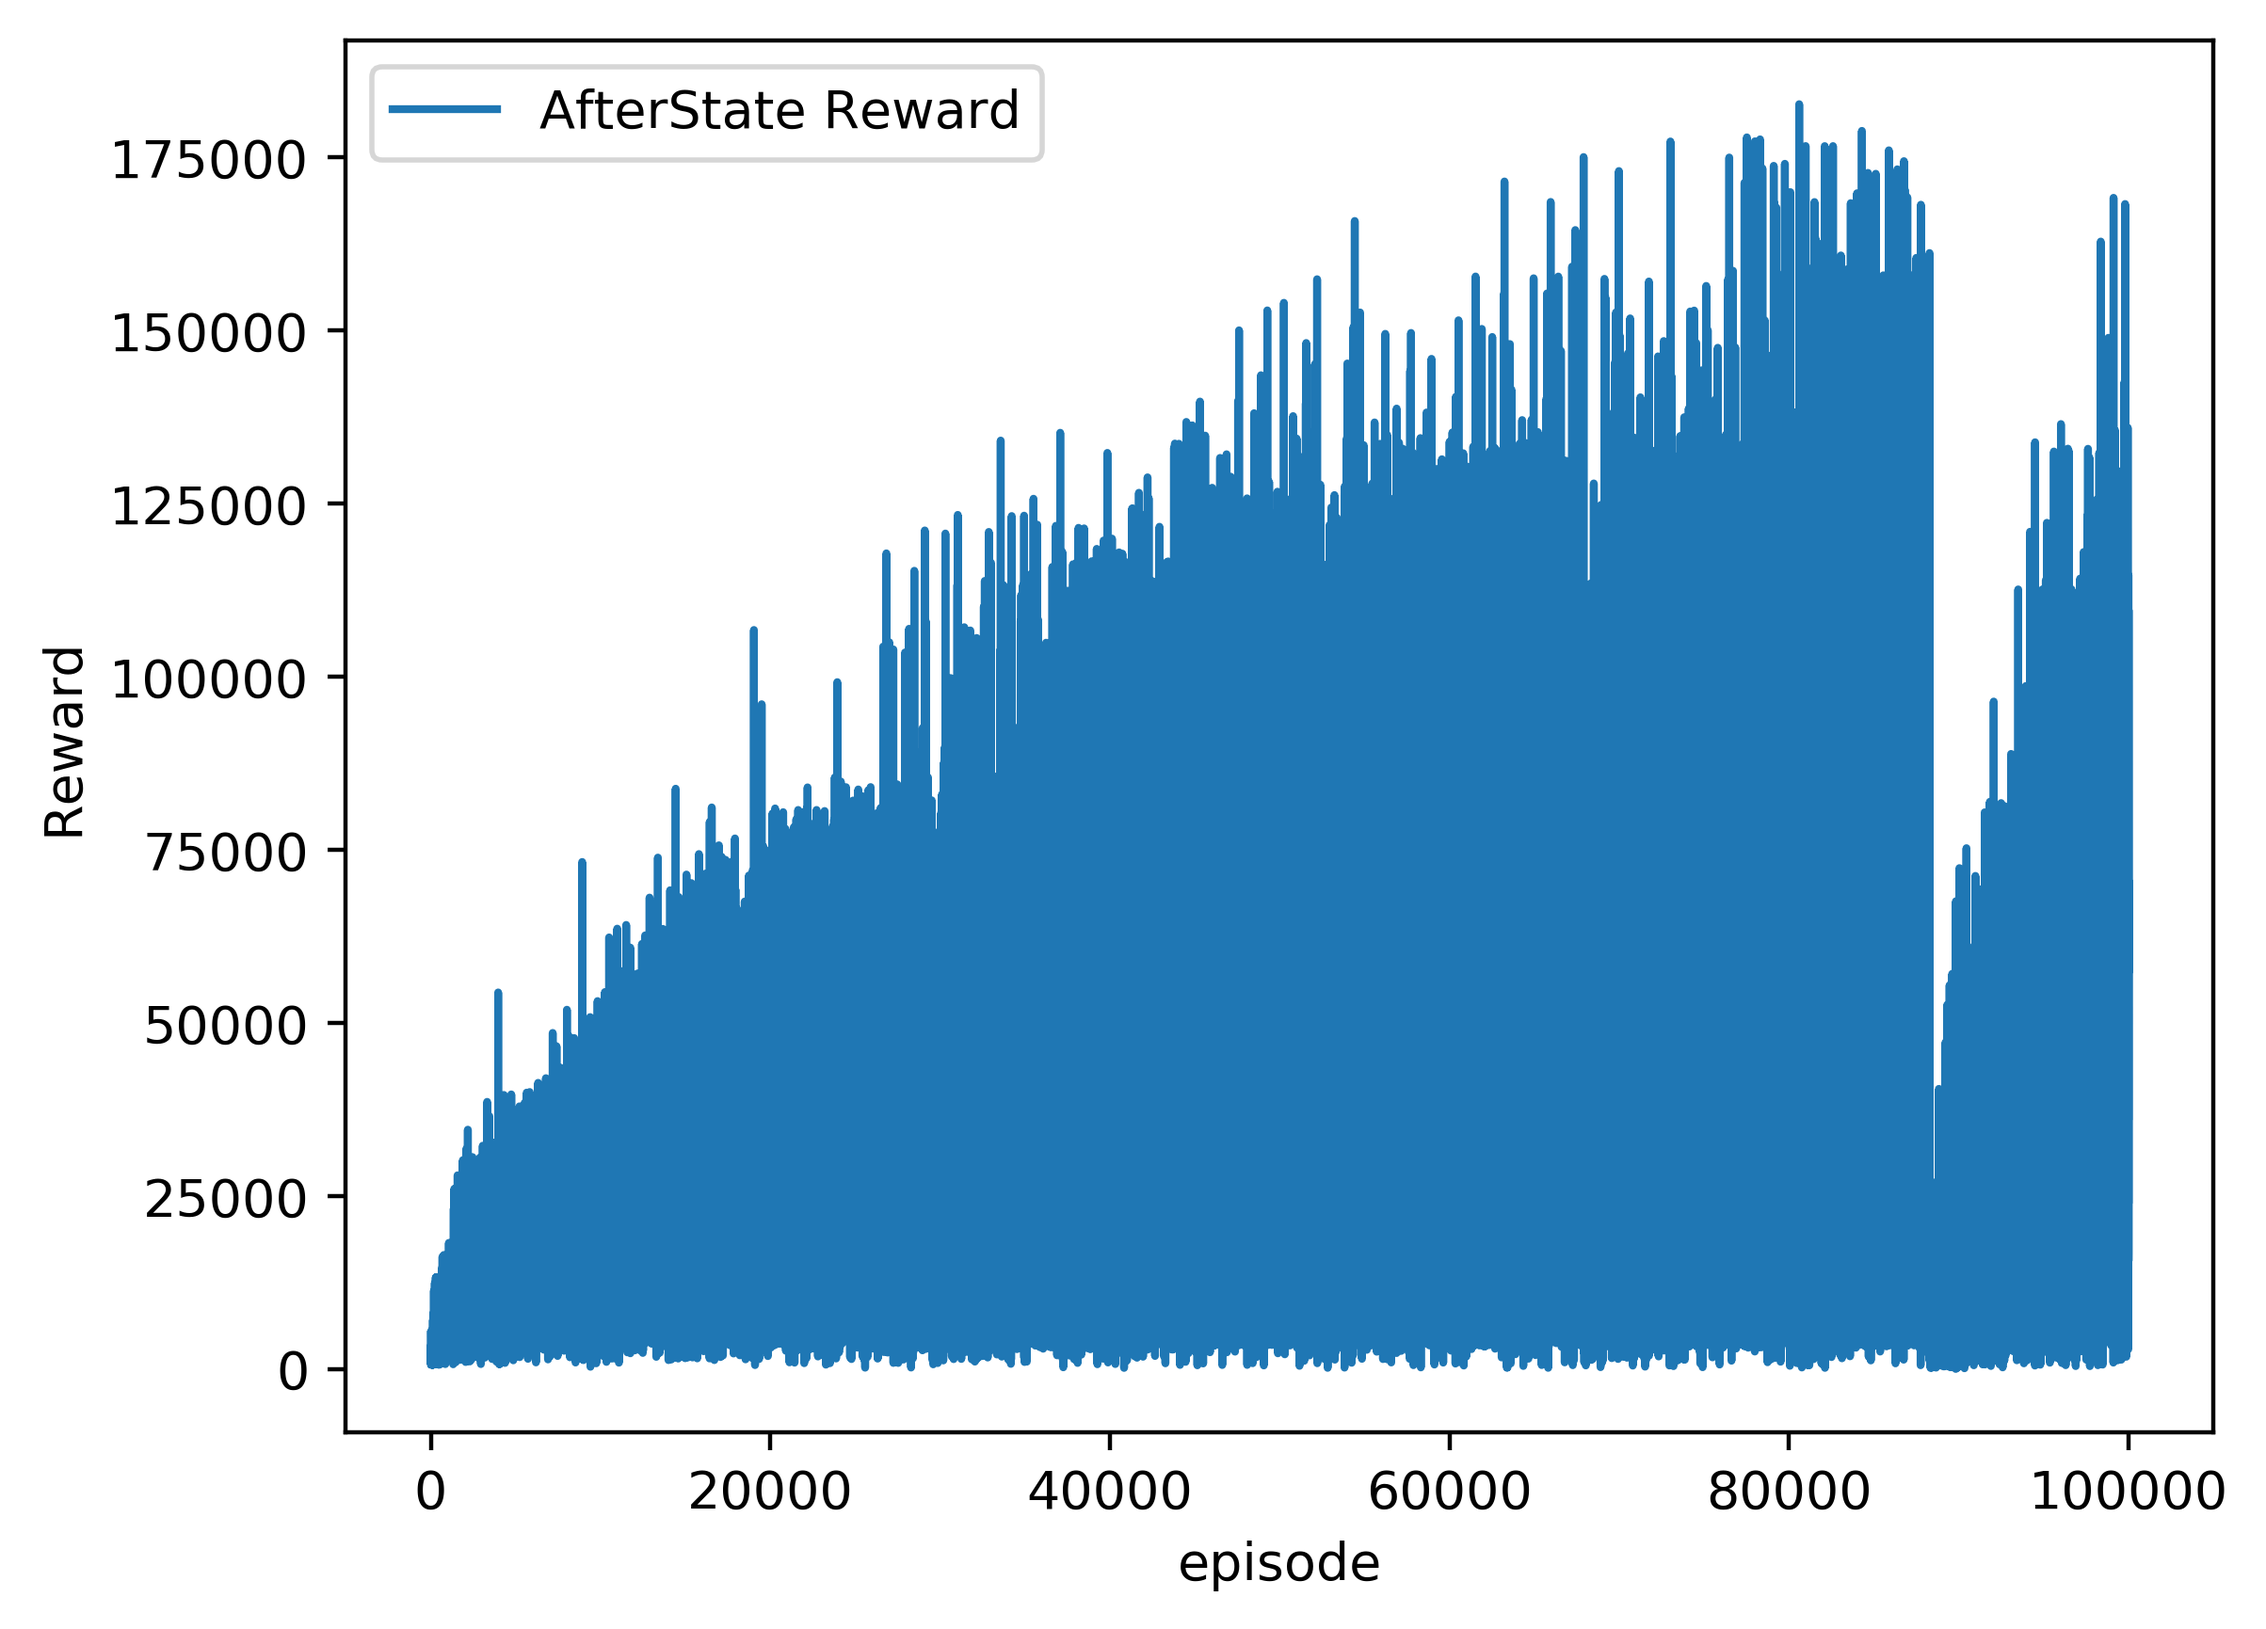
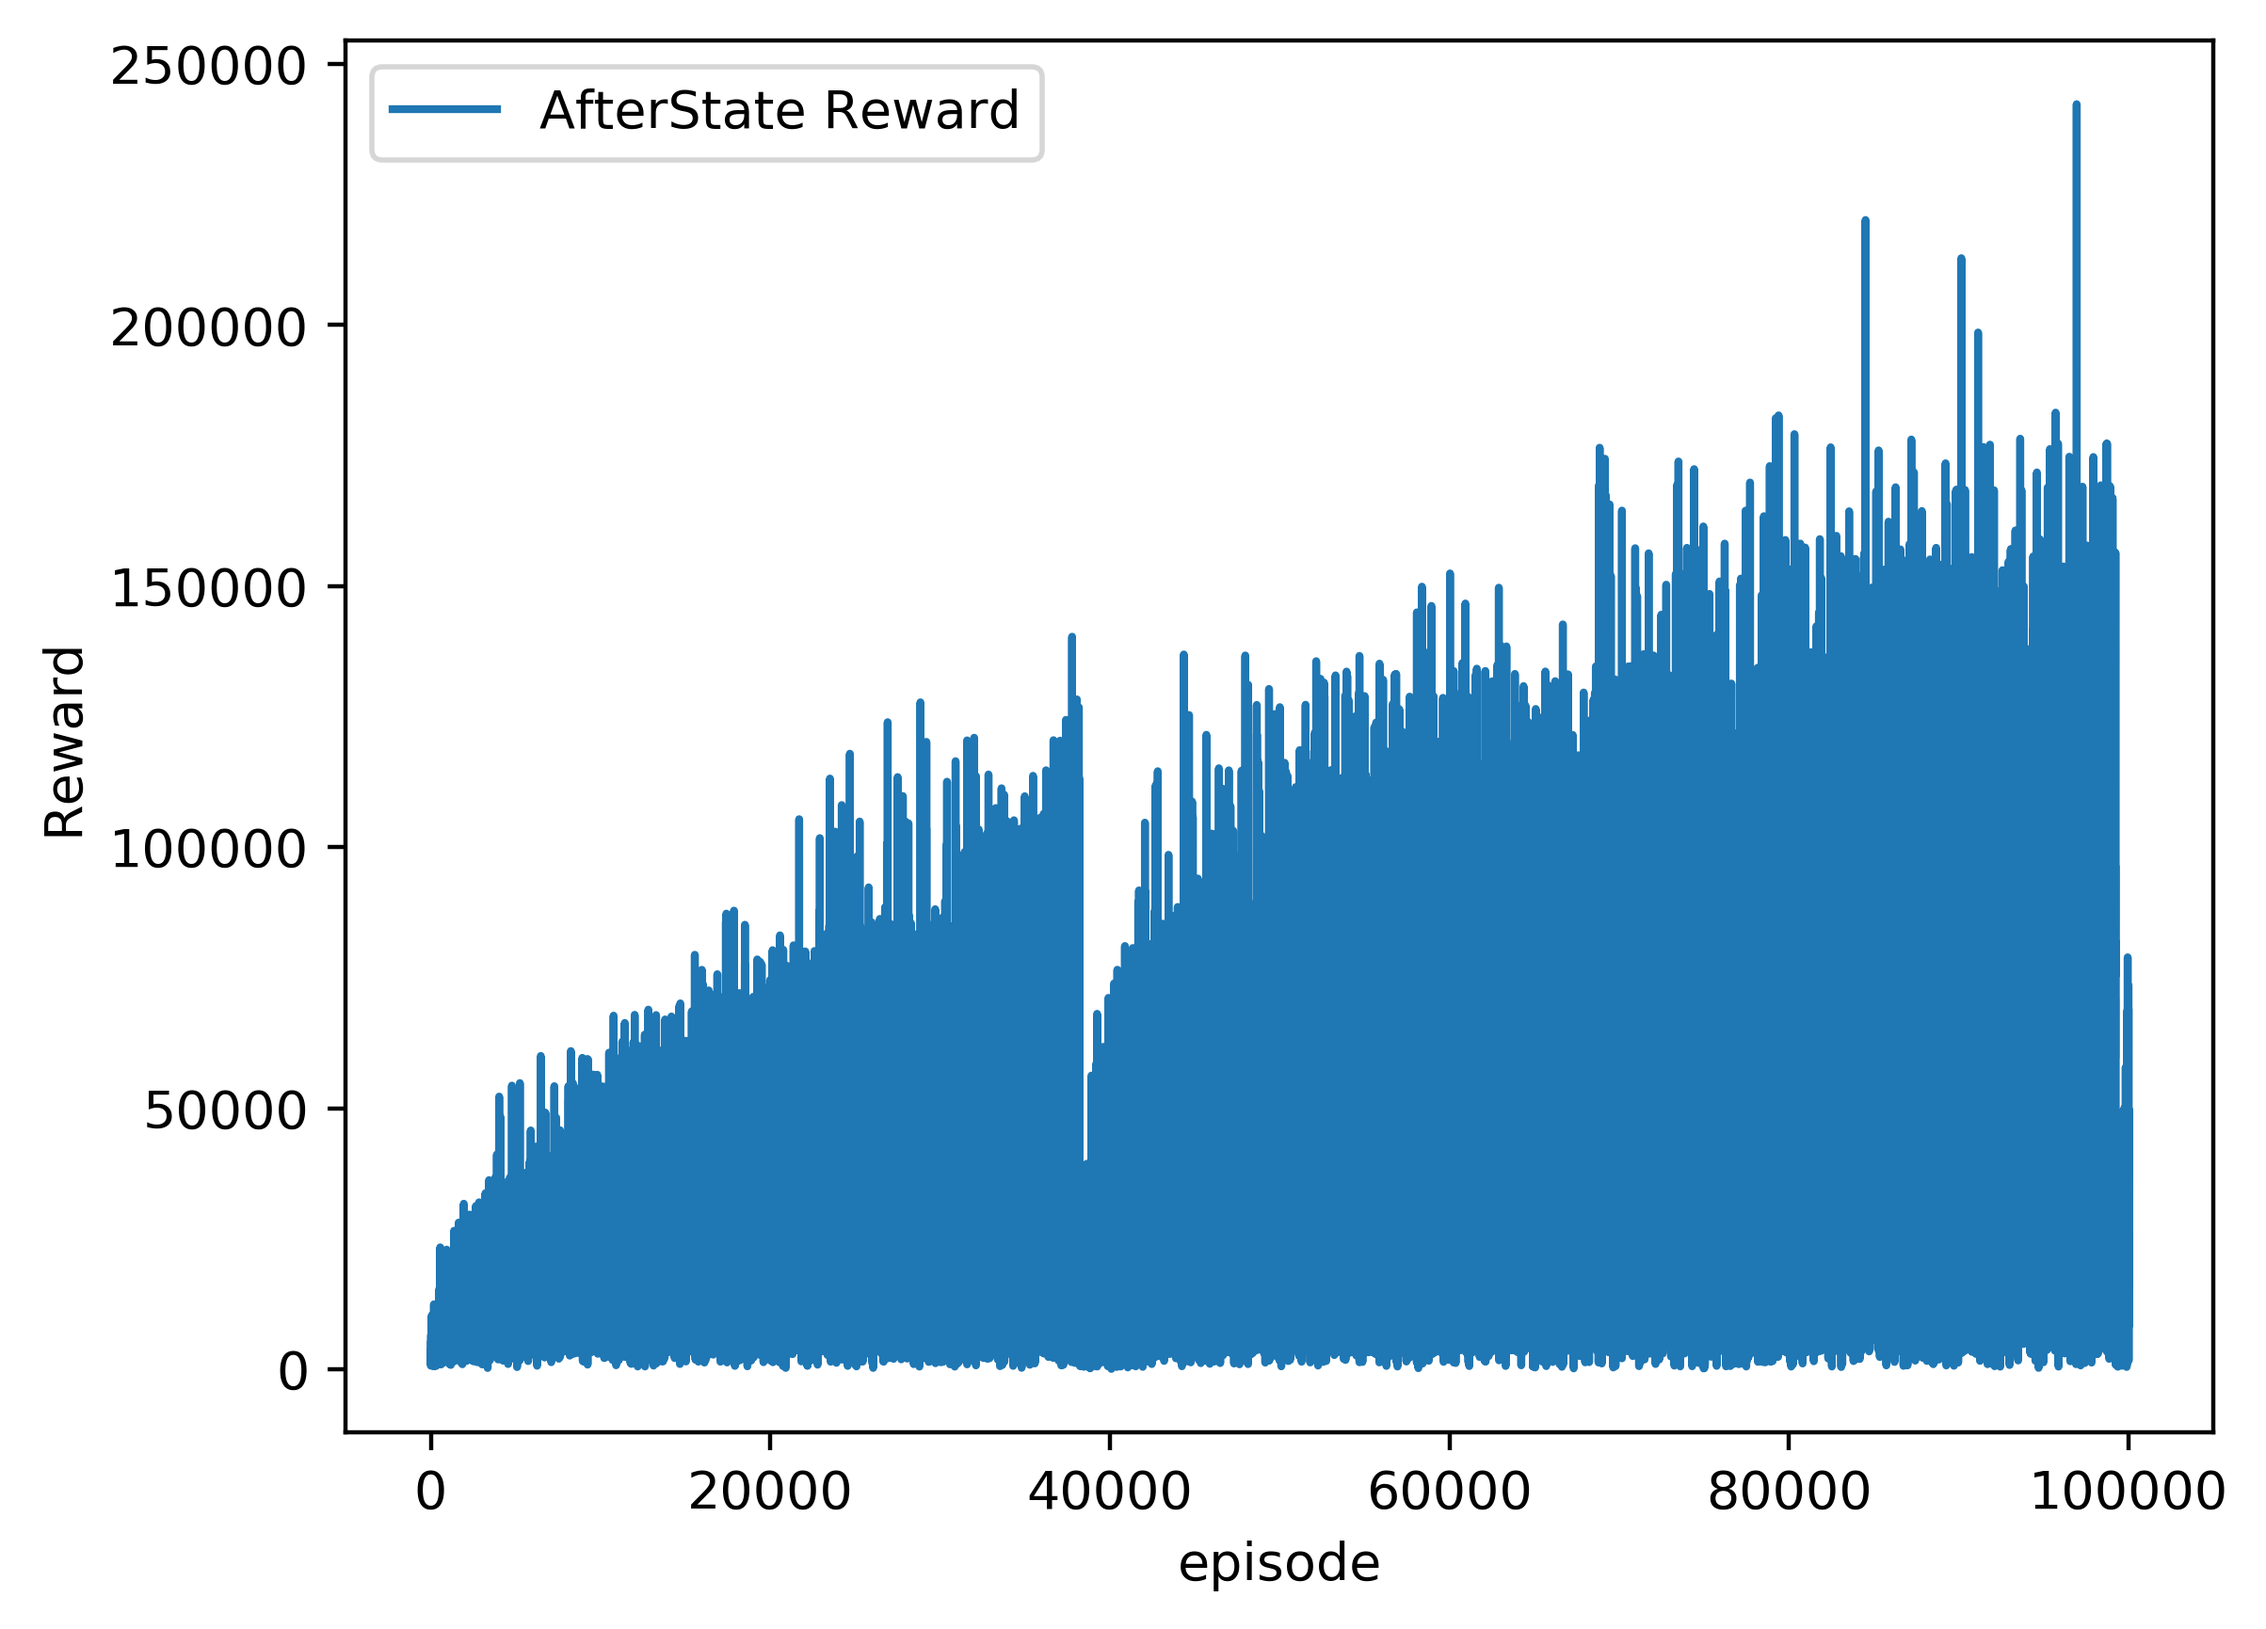
train 500k episode

diff --git a/V(afterState).cpp b/V(afterState).cpp
@@ -38,6 +38,9 @@ std::ostream& debug = *(new std::ofstream);
 // set up the training 2048(and above) percentage
 char perfilename[] = "Results/AfterStatePercentage.csv";
 std::fstream perFile;
+// set up the training score file
+char filename[] = "Results/AfterStateScore.csv";
+std::fstream scoreFile;
 
 /**
  * 64-bit bitboard implementation for 2048
@@ -726,6 +729,7 @@ public:
 		float exact = 0;
 		for (path.pop_back() /* terminal state */; path.size(); path.pop_back()) {
 			state& move = path.back();
+			//exact: V(s'next), move.reward(): rnext, move.value(): V(s')
 			float error = exact - (move.value() - move.reward());
 			debug << "update error = " << error << " for after state" << std::endl << move.after_state();
 			exact = move.reward() + update(move.after_state(), alpha * error);
@@ -787,6 +791,7 @@ public:
 				}
 			}
 			perFile << std::endl;
+			scoreFile << n << "," << mean << "," << max << std::endl;
 			scores.clear();
 			maxtile.clear();
 		}
@@ -855,7 +860,7 @@ int main(int argc, const char* argv[]) {
 
 	// set the learning parameters
 	float alpha = 0.1;
-	size_t total = 100000;
+	size_t total = 500000;
 	unsigned seed;
 	__asm__ __volatile__ ("rdtsc" : "=a" (seed));
 	info << "alpha = " << alpha << std::endl;
@@ -872,9 +877,7 @@ int main(int argc, const char* argv[]) {
 	// restore the model from file
 	tdl.load("");
 
-    // set up the training score file
-    char filename[] = "Results/AfterStateScore.csv";
-    std::fstream scoreFile;
+	//Open the score file and perFile
     scoreFile.open(filename, std::ios::out);
 	perFile.open(perfilename, std::ios::out);
 
@@ -903,7 +906,6 @@ int main(int argc, const char* argv[]) {
 			}
 		}
 		debug << "end episode" << std::endl;
-        scoreFile << n << "," << score << std::endl;
 		// update by TD(0)
 		tdl.update_episode(path, alpha);
 		tdl.make_statistic(n, b, score);
